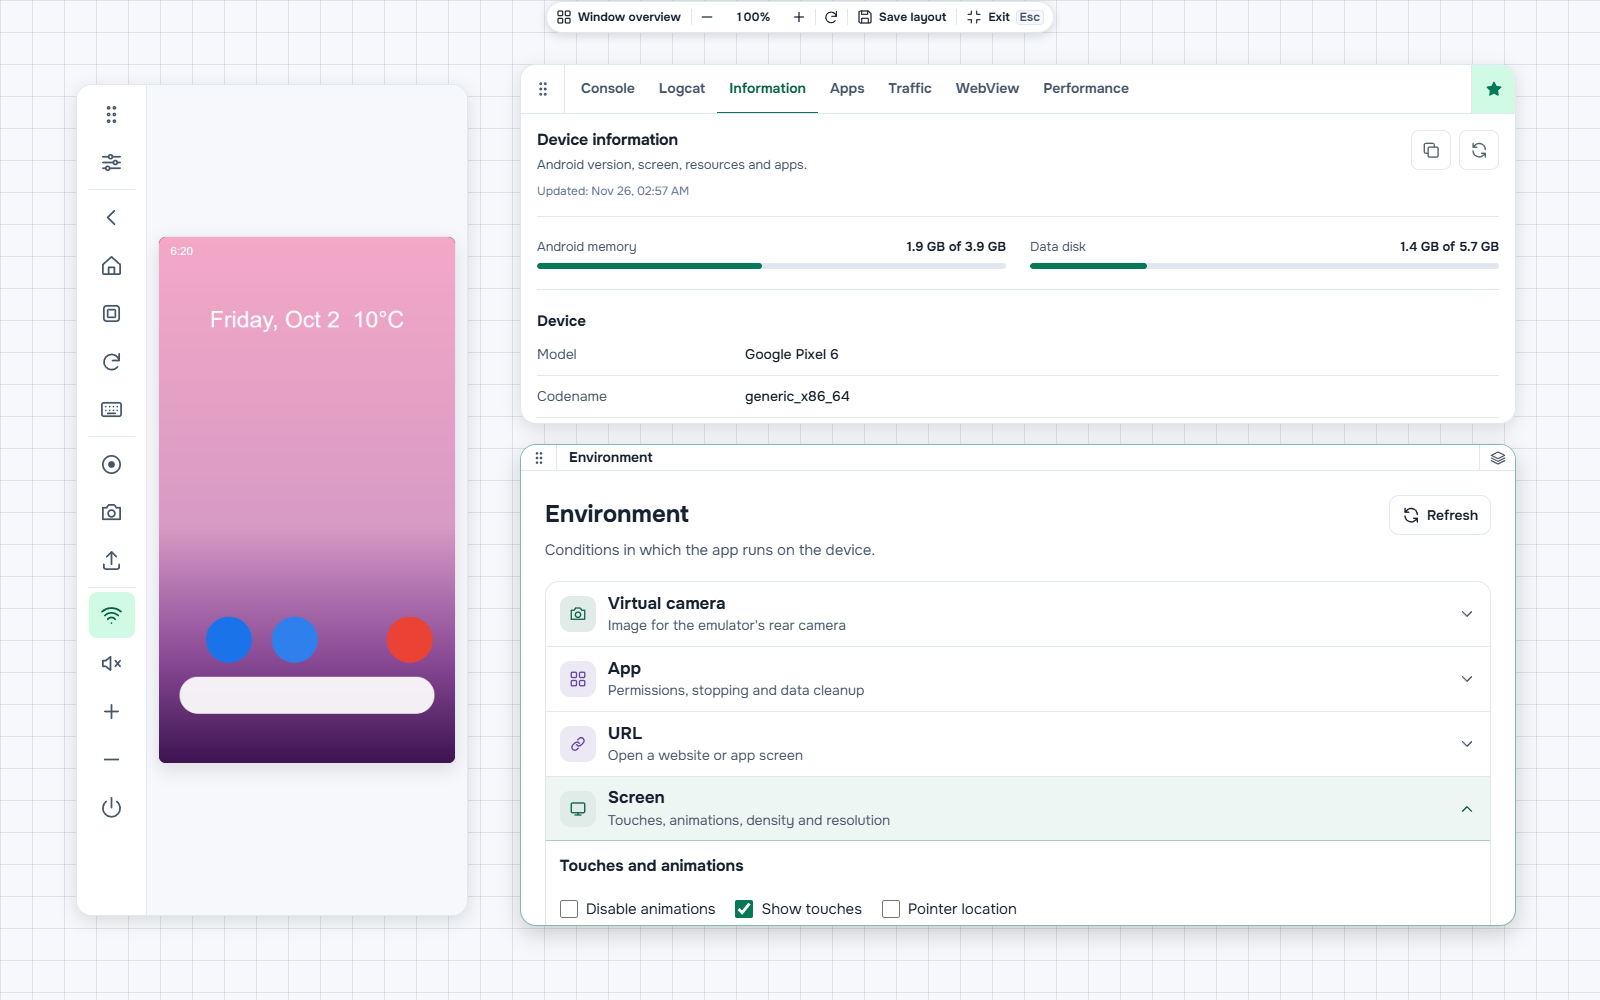
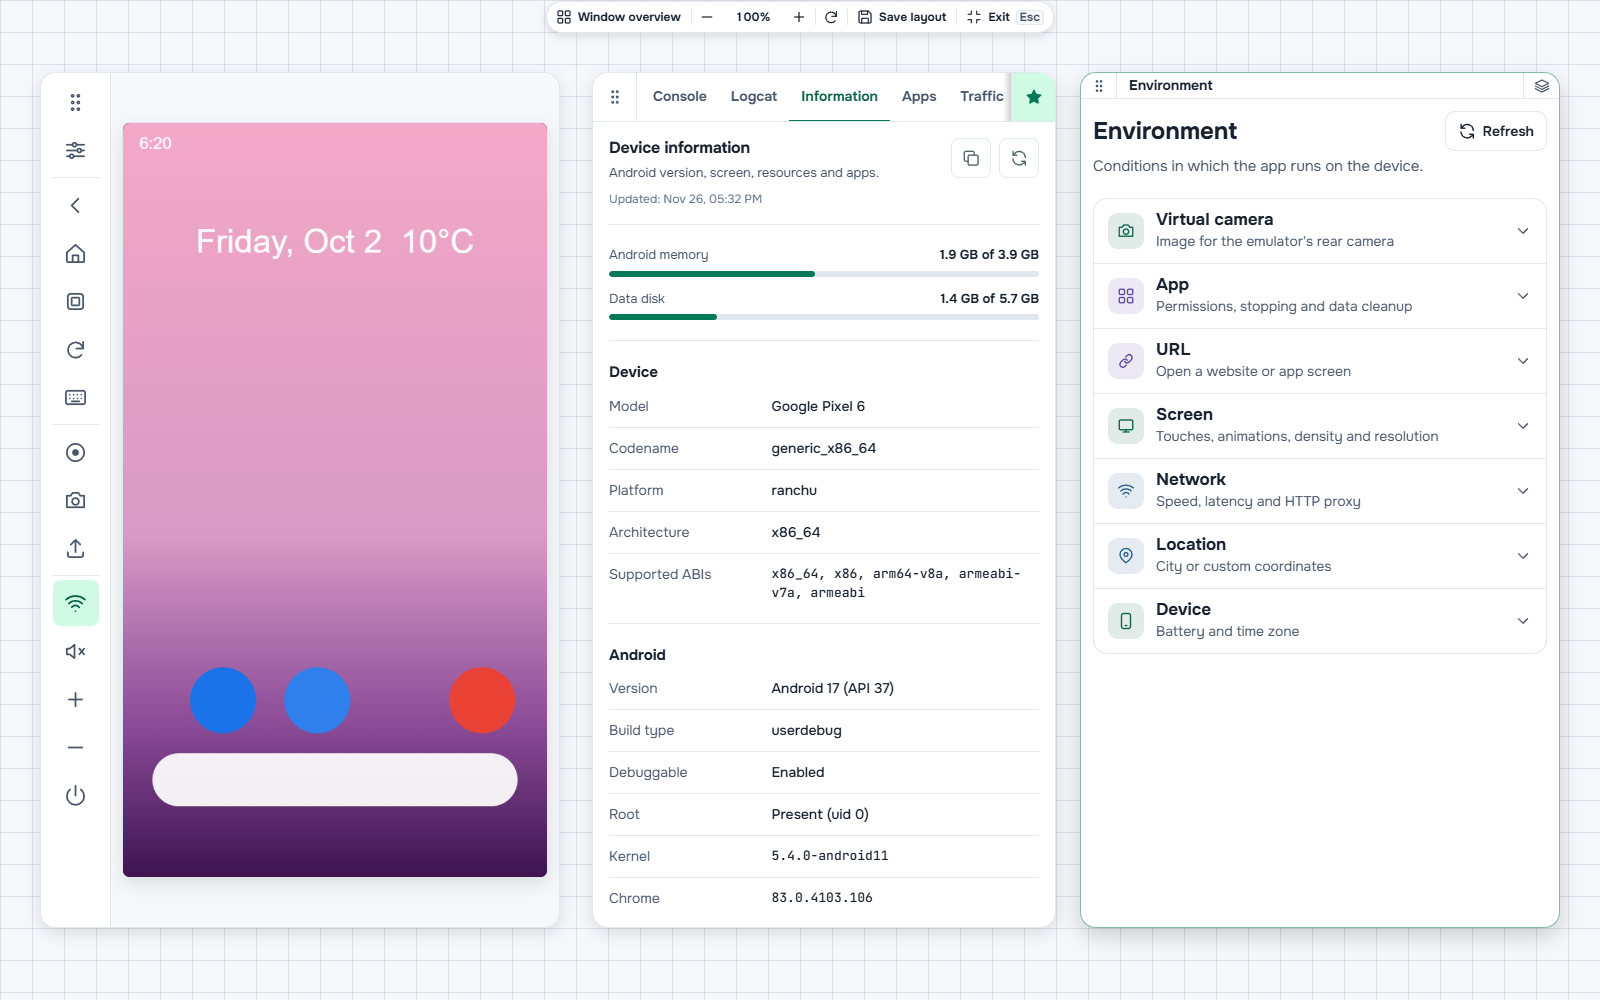
Match focus rings to rounded surfaces and refresh Desk previews

Changed region(s): [[0.0312, 0.062, 0.9688, 0.93], [0.5938, 0.155, 0.625, 0.186]]

diff --git a/frontend/src/EmulatorCatalogDialog.css b/frontend/src/EmulatorCatalogDialog.css
@@ -4,8 +4,8 @@
 .emulator-catalog .modal-description{margin:6px 0 0;color:var(--ui-subtle);font-size:.875rem;line-height:1.5;max-width:none;text-wrap:pretty}
 .emulator-catalog-visually-hidden{position:absolute;width:1px;height:1px;padding:0;margin:-1px;overflow:hidden;clip-path:inset(50%);white-space:nowrap;border:0}
 .emulator-catalog-body{flex:1;min-height:0;overflow-y:auto;padding:18px 28px;display:grid;grid-template-columns:minmax(0,1fr);gap:16px;align-content:start}
-.emulator-catalog-settings{border:1px solid var(--ui-border);border-radius:14px;background:var(--ui-inset)}
-.emulator-catalog-settings>summary{display:flex;align-items:center;gap:12px;min-height:52px;padding:0 18px;cursor:pointer;list-style:none}
+.emulator-catalog-settings{--disclosure-radius:14px;border:1px solid var(--ui-border);border-radius:var(--disclosure-radius);background:var(--ui-inset)}
+.emulator-catalog-settings>summary{display:flex;align-items:center;gap:12px;min-height:52px;padding:0 18px;cursor:pointer;list-style:none;border-radius:calc(var(--disclosure-radius) - 1px)}
 .emulator-catalog-settings>summary::-webkit-details-marker{display:none}
 .emulator-catalog-settings>summary strong{font-size:.9375rem;color:var(--ui-text)}
 .emulator-catalog-settings>summary span{margin-inline-start:auto;font-size:.8125rem;color:var(--ui-muted);overflow:hidden;text-overflow:ellipsis;white-space:nowrap;min-width:0}
@@ -26,6 +26,8 @@
 :root .modal.emulator-catalog .emulator-catalog-choice input{appearance:auto;flex:none;width:16px;height:16px;min-height:0;margin:0;padding:0;accent-color:var(--accent);box-shadow:none;cursor:inherit}
 .modal.emulator-catalog .emulator-catalog-choice:has(input:disabled){opacity:.6;cursor:not-allowed}
 :root .modal.emulator-catalog :is(input,select,button,summary):focus-visible{outline:2px solid var(--accent);outline-offset:2px;box-shadow:none}
+:root .modal.emulator-catalog :is(.emulator-catalog-settings,.emulator-catalog-prewarm)>summary:focus-visible{outline-offset:-2px}
+.emulator-catalog-settings[open]>summary,.emulator-catalog-prewarm[open]>summary{border-end-start-radius:0;border-end-end-radius:0}
 .emulator-catalog-credentials{display:grid;grid-template-columns:repeat(2,minmax(0,1fr));gap:6px 12px;min-width:0}
 .modal.emulator-catalog .emulator-catalog-credentials>.emulator-catalog-field{grid-row:span 2;grid-template-rows:subgrid}
 .emulator-catalog-settings-actions{display:flex;justify-content:flex-end;padding:0 18px 16px}
@@ -92,8 +94,8 @@
 .emulator-catalog-prewarm-actions{display:flex;align-items:center;gap:16px}
 .emulator-catalog-prewarm-actions p{flex:1;margin:0;color:var(--ui-subtle);font-size:.8125rem;line-height:1.5}
 .emulator-catalog-prewarm-actions button{flex:none}
-.emulator-catalog-prewarm{border:1px solid var(--ui-border);border-radius:12px;min-width:0}
-.emulator-catalog-prewarm>summary{display:flex;align-items:center;gap:12px;padding:14px 16px;cursor:pointer;list-style:none}
+.emulator-catalog-prewarm{--disclosure-radius:12px;border:1px solid var(--ui-border);border-radius:var(--disclosure-radius);min-width:0}
+.emulator-catalog-prewarm>summary{display:flex;align-items:center;gap:12px;padding:14px 16px;cursor:pointer;list-style:none;border-radius:calc(var(--disclosure-radius) - 1px)}
 .emulator-catalog-prewarm>summary::-webkit-details-marker{display:none}
 .emulator-catalog-prewarm>summary strong{font-size:.875rem;color:var(--ui-text)}
 .emulator-catalog-prewarm>summary span{margin-inline-start:auto;font-size:.75rem;color:var(--ui-subtle)}

diff --git a/frontend/src/FloatingWorkspace.css b/frontend/src/FloatingWorkspace.css
@@ -63,6 +63,7 @@ body:has(.session-layout[data-desk])>.notification-stack:not(.notification-stack
 .session-layout[data-desk] .terminal-tool>:not(.terminal-output){flex:none}
 .session-layout[data-desk] :is(.session-tool-tabs-strip,.desk-widget-header){
   display:flex;align-items:stretch;min-width:0;flex:none;cursor:grab;border-block-end:1px solid var(--ui-border);
+  border-start-start-radius:inherit;border-start-end-radius:inherit;
 }
 .session-layout[data-desk] .desk-widget-header{
   min-block-size:max(25px,1.625rem);touch-action:none;user-select:none;
@@ -102,7 +103,7 @@ body:has(.session-layout[data-desk])>.notification-stack:not(.notification-stack
 
 .session-layout .floating-window-move{cursor:grab;touch-action:none;user-select:none}
 .session-layout .floating-window-move:active{cursor:grabbing}
-.session-tool-tabs-strip>.floating-desk-actions{display:flex;flex:none;align-items:stretch}
+.session-tool-tabs-strip>.floating-desk-actions{display:flex;flex:none;align-items:stretch;border-start-end-radius:inherit}
 :is(.session-tool-tabs-strip,.desk-widget-header)>.floating-window-move,
 .floating-desk-actions>button,.desk-widget-header>.desk-widget-dock{
   flex:none;inline-size:2.75rem;display:grid;place-items:center;padding:0;border:0;
@@ -115,6 +116,8 @@ body:has(.session-layout[data-desk])>.notification-stack:not(.notification-stack
 .desk-widget-header>:is(.floating-window-move,.desk-widget-dock){inline-size:max(36px,2rem)}
 .desk-widget-header>button>svg{inline-size:16px;block-size:16px}
 :is(.session-tool-tabs-strip,.desk-widget-header)>.floating-window-move{border-inline-end:1px solid var(--ui-border)}
+.session-tool-tabs-strip>.floating-window-move,.desk-widget-header>.floating-window-move{border-start-start-radius:inherit}
+.floating-desk-actions>button:last-child,.desk-widget-header>.desk-widget-dock{border-start-end-radius:inherit}
 .floating-desk-actions>button,.desk-widget-header>.desk-widget-dock{border-inline-start:1px solid var(--ui-border);cursor:pointer}
 :is(.session-tool-tabs-strip,.desk-widget-header)>.floating-window-move:hover,
 .floating-desk-actions>button:hover,.desk-widget-header>.desk-widget-dock:hover{

diff --git a/frontend/src/card-navigation.css b/frontend/src/card-navigation.css
@@ -2,12 +2,12 @@
    Independent controls stay above its hit area without nesting interactive elements. */
 .interactive-card{position:relative;isolation:isolate}
 .interactive-card .card-primary-action{position:static;display:inline;padding:0;border:0;border-radius:0;background:none;box-shadow:none;color:inherit;font:inherit;line-height:inherit;text-align:inherit;text-decoration:none;cursor:pointer}
-.interactive-card .card-primary-action::after{content:"";position:absolute;inset:0;z-index:1;border-radius:12px;cursor:pointer;transition:box-shadow .15s}
-.interactive-card .card-primary-action:not(:disabled):hover::after{box-shadow:inset 0 0 0 1px var(--accent)}
+.interactive-card .card-primary-action::after{content:"";position:absolute;inset:0;z-index:1;cursor:pointer}
 .interactive-card .card-primary-action:focus-visible{outline:none}
-.interactive-card .card-primary-action:focus-visible::after{outline:2px solid var(--accent);outline-offset:2px}
+.interactive-card:has(.card-primary-action:not(:disabled):hover)::after,
+.interactive-card:has(.card-primary-action:focus-visible)::after{content:"";position:absolute;inset:0;z-index:3;border-radius:inherit;pointer-events:none}
+.interactive-card:has(.card-primary-action:not(:disabled):hover)::after{box-shadow:inset 0 0 0 1px var(--accent)}
+.interactive-card:has(.card-primary-action:focus-visible)::after{outline:2px solid var(--accent);outline-offset:-2px}
 .interactive-card .card-secondary-action{position:relative;z-index:2}
-tr.interactive-card .card-primary-action::after{border-radius:0}
-@media(prefers-reduced-motion:reduce){.interactive-card .card-primary-action::after{transition:none}}
 
 .interactive-card .card-primary-action:disabled,.interactive-card .card-primary-action:disabled::after{cursor:not-allowed}

diff --git a/frontend/src/LaunchSettings.css b/frontend/src/LaunchSettings.css
@@ -1,9 +1,11 @@
-.admin-launch-settings{border:1px solid var(--ui-border);border-radius:12px;background:var(--ui-surface);min-width:0;margin-bottom:20px}
-.admin-launch-settings>summary{display:flex;align-items:center;gap:12px;padding:16px 20px;cursor:pointer;list-style:none;color:var(--ui-text);font-size:.875rem;font-weight:600;line-height:1.5}
+.admin-launch-settings{--disclosure-radius:12px;border:1px solid var(--ui-border);border-radius:var(--disclosure-radius);background:var(--ui-surface);min-width:0;margin-bottom:20px}
+.admin-launch-settings>summary{display:flex;align-items:center;gap:12px;padding:16px 20px;cursor:pointer;list-style:none;color:var(--ui-text);font-size:.875rem;font-weight:600;line-height:1.5;border-radius:calc(var(--disclosure-radius) - 1px)}
 .admin-launch-settings>summary::-webkit-details-marker{display:none}
 .admin-launch-settings>summary>svg{flex:none}
 .admin-launch-settings[open]>summary>svg{transform:rotate(180deg)}
-.admin-launch-settings>summary:focus-visible{outline:2px solid var(--accent);outline-offset:2px;border-radius:10px}
+.admin-launch-settings>summary:focus-visible{outline:2px solid var(--accent);outline-offset:2px}
+.admin-launch-settings:not(.is-compact)[open]>summary{border-end-start-radius:0;border-end-end-radius:0}
+.admin-launch-settings:not(.is-compact)>summary:focus-visible{outline-offset:-2px}
 .launch-settings-summary{margin-inline-start:auto;font-size:.75rem;font-weight:400;color:var(--ui-muted)}
 .launch-settings-body{border-top:1px solid var(--ui-border);padding:16px 20px}
 .launch-policy-control{display:flex;align-items:center;gap:24px;justify-content:space-between}

diff --git a/frontend/src/RegistrationSettings.css b/frontend/src/RegistrationSettings.css
@@ -1,5 +1,6 @@
- .registration-settings{border:1px solid var(--ui-border);border-radius:12px;background:var(--ui-surface);margin-bottom:1.25rem}
-.registration-settings>summary{cursor:pointer;padding:1rem 1.25rem;font-weight:650;color:var(--ui-text)}
+ .registration-settings{--disclosure-radius:12px;border:1px solid var(--ui-border);border-radius:var(--disclosure-radius);background:var(--ui-surface);margin-bottom:1.25rem}
+.registration-settings>summary{cursor:pointer;padding:1rem 1.25rem;font-weight:650;color:var(--ui-text);border-radius:calc(var(--disclosure-radius) - 1px)}
+.registration-settings[open]>summary{border-end-start-radius:0;border-end-end-radius:0}
 .registration-settings form{display:grid;gap:1rem;padding:0 1.25rem 1.25rem;max-width:44rem}
 .registration-settings p{margin:0;color:var(--ui-subtle);line-height:1.5}
 .registration-toggle{display:flex;gap:1rem;align-items:center;justify-content:space-between;min-height:2.75rem}
@@ -16,3 +17,4 @@
 .registration-settings .registration-settings-saved{color:var(--accent)}
 
 .registration-settings :is(input,select,button,summary):focus-visible{outline:2px solid var(--accent);outline-offset:2px}
+.registration-settings>summary:focus-visible{outline-offset:-2px}

diff --git a/frontend/src/CreateSessionModal.css b/frontend/src/CreateSessionModal.css
@@ -10,7 +10,7 @@
 .modal.create-session-modal .create-session-tabs>button{position:relative;display:flex;align-items:center;justify-content:center;min-width:0;min-height:52px;margin:0;padding:12px 0;border:0;border-radius:0;background:transparent;color:var(--ui-muted);font:inherit;font-size:1rem;font-weight:600;line-height:1.5;text-align:start;cursor:pointer}
 .modal.create-session-modal .create-session-tabs>button[aria-selected=true]{color:var(--accent-strong)}
 .create-session-tabs>button[aria-selected=true]::after{position:absolute;content:'';inset-inline:0;bottom:-1px;height:2px;background:var(--accent)}
-.modal.create-session-modal .create-session-tabs>button:focus-visible{outline:2px solid var(--accent);outline-offset:3px;border-radius:4px}
+.modal.create-session-modal .create-session-tabs>button:focus-visible{outline:2px solid var(--accent);outline-offset:-3px;border-radius:4px}
 .modal.create-session-modal .create-session-tabs>button:disabled{cursor:wait;opacity:.6}
 .create-session-panels{position:relative;display:grid;flex:1;min-height:0;overflow:hidden}
 .create-session-body[hidden]{display:none}

diff --git a/frontend/src/polish-admin.css b/frontend/src/polish-admin.css
@@ -93,11 +93,6 @@
 .admin-workspace .section-heading > div > h2:not(.heading-with-count){display:none}
 .admin-workspace .section-heading > :last-child:not(:first-child){margin-inline-start:auto}
 
-/* List rows: a soft tint instead of a hard outline; the keyboard focus ring stays. */
-.admin-workspace .agent-row.interactive-card .card-primary-action::after{inset:4px -.625rem;border-radius:.5rem;transition:background-color .15s}
-.admin-workspace .agent-row.interactive-card .card-primary-action:not(:disabled):hover::after{box-shadow:none;background:color-mix(in srgb,var(--accent) 8%,transparent)}
-.admin-workspace .agent-row.interactive-card .card-primary-action:focus-visible::after{outline-offset:-2px}
-
 /* Counters say what they count. */
 
 .count-badge{display:inline-flex;align-items:stretch;overflow:hidden;border:1px solid color-mix(in srgb,var(--accent) 30%,transparent);border-radius:999px;background:var(--ui-surface);font-size:.8125rem;line-height:1;white-space:nowrap}

diff --git a/frontend/src/Env.css b/frontend/src/Env.css
@@ -71,6 +71,8 @@
   cursor: pointer;
 }
 .session-layout .env-card > summary::-webkit-details-marker { display: none; }
+.session-layout .env-card:first-child > summary { border-start-start-radius: calc(.875rem - 1px); border-start-end-radius: calc(.875rem - 1px); }
+.session-layout .env-card:last-child:not([open]) > summary { border-end-start-radius: calc(.875rem - 1px); border-end-end-radius: calc(.875rem - 1px); }
 .session-layout .env-card > summary:hover { background: var(--ui-inset); }
 .session-layout .env-card > summary:focus-visible { outline: 2px solid var(--accent); outline-offset: -2px; }
 .session-layout .env-card[open] > summary {

diff --git a/README.md b/README.md
@@ -31,7 +31,7 @@ Use a shared device pool for Android tests across projects. Native reusable inte
 
 The [Bash CLI](docs/api/README.md#готовый-помощник-для-ci) queues device requests, connects ADB, renews the lease during tests and releases the device after completion or cancellation. The examples include artifact collection. The packages share the CLI lifecycle and are available from source; live CI and Android plugin validation is still incomplete. [Setup and verification status](docs/ci/README.md).
 
-![Android session in the English interface](docs/screenshots/device-dark.png)
+![Desk with a large emulator, console and detached Logcat](docs/screenshots/desk-logcat-dark.png)
 
 [Desk examples](docs/screenshots/README.md#desk) · [Screenshot gallery](docs/screenshots/README.md)
 

diff --git a/docs/screenshots/README.md b/docs/screenshots/README.md
@@ -14,13 +14,9 @@ The emulator, console and detached Logcat share the workspace during a debugging
 
 ![Desk with the emulator, console and Logcat, dark theme](desk-logcat-dark.png)
 
-Keep device information visible while adjusting Android display settings in a separate Environment widget.
+Keep device information visible beside the settings in a separate Environment widget.
 
 ![Desk with device information and Environment, light theme](desk-environment-light.png)
-
-A dashed guide shows the shared center line while a widget is being moved.
-
-![Desk with a vertical alignment guide, dark theme](desk-alignment-dark.png)
 
 **Window overview** brings any window to the front and lets detached tools return to the tab bar.
 
